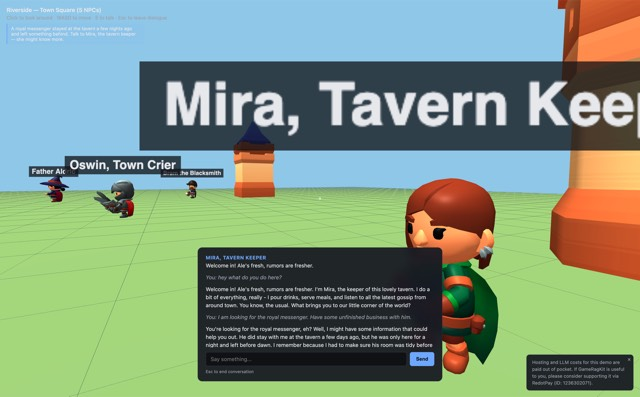
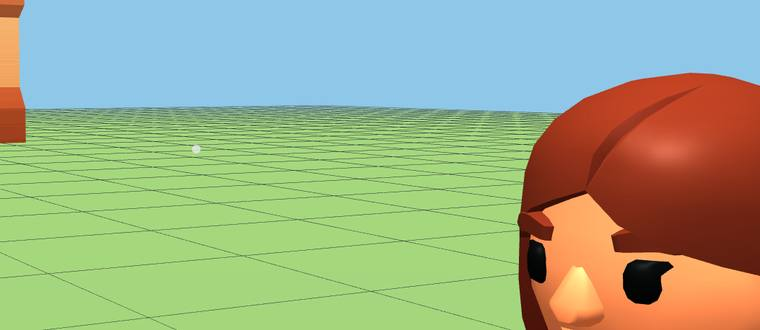
Fix editor zoom floor and re-crop landing page thumbnails
The persona editor's min-zoom clamp (0.25) was tuned against a ~20-NPC
local test and silently failed on the live deployment's actual 40 NPCs:
the required fit zoom (~0.22) got clamped back up to 0.25, reproducing
the exact blank-canvas bug the auto-fit was meant to fix. Lowered the
floor (shared with the wheel handler) to comfortably fit several hundred
NPCs.

The demo card thumbnails were cropped from the center of each screenshot,
which landed on the oversized NPC-name title banner rather than the
scene. Re-cropped to a clean band of each screenshot with no UI overlay.

diff --git a/src/GameRagKit.Cli/StudioWeb/app.js b/src/GameRagKit.Cli/StudioWeb/app.js
@@ -20,6 +20,12 @@
   const NODE_COLOR = 0x6ea8fe;
   const NODE_COLOR_HOVER = 0x85b6ff;
   const NODE_COLOR_ACTIVE = 0x5ec26a;
+  // Shared by the wheel handler and fitCameraToRadius (see below) so manual scrolling can
+  // always reach at least as far out as the initial auto-fit needs -- if the two ever
+  // disagreed, whichever had the tighter floor could clamp the ring back into a
+  // partially-off-screen state the other was specifically written to avoid.
+  const MIN_ZOOM = 0.02;
+  const MAX_ZOOM = 4;
 
   // ---- API -------------------------------------------------------------
 
@@ -216,14 +222,19 @@
   // every node lands outside the visible viewport, so the canvas looks completely blank
   // on load with no indication anything is there (confirmed against the live deployment
   // with 40 NPCs: radius 1600 vs. a ~836x475 default half-extent). Padding so the ring
-  // isn't flush against the edges, and clamping to the same [0.25, 4] range the wheel
-  // handler already enforces so this can't leave zoom in a state manual scrolling can't
-  // recover from.
+  // isn't flush against the edges.
+  //
+  // MIN_ZOOM here must be low enough to actually fit the largest radius this ring layout
+  // can produce, not an arbitrary "close enough" floor -- the previous 0.25 floor was
+  // tuned against a ~20-NPC local test and silently failed at the live deployment's
+  // actual 40 NPCs (radius 1600 needs zoom ~0.22, which 0.25 clamped back up to,
+  // reintroducing the exact blank-canvas bug this function exists to fix). 0.02 comfortably
+  // fits several hundred NPCs (radius ~16000) before the same problem could recur.
   function fitCameraToRadius(radius) {
     const padding = 1.25;
     const fitZoomX = viewWidth / 2 / (radius * padding);
     const fitZoomY = viewHeight / 2 / (radius * padding);
-    zoom = Math.min(4, Math.max(0.25, Math.min(fitZoomX, fitZoomY)));
+    zoom = Math.min(MAX_ZOOM, Math.max(MIN_ZOOM, Math.min(fitZoomX, fitZoomY)));
     updateCamera();
   }
 
@@ -328,7 +339,7 @@
   canvas.addEventListener("wheel", (event) => {
     event.preventDefault();
     const zoomFactor = Math.exp(-event.deltaY * 0.001);
-    zoom = Math.min(4, Math.max(0.25, zoom * zoomFactor));
+    zoom = Math.min(MAX_ZOOM, Math.max(MIN_ZOOM, zoom * zoomFactor));
     updateCamera();
   }, { passive: false });
 
